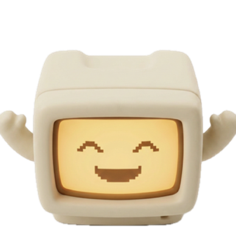
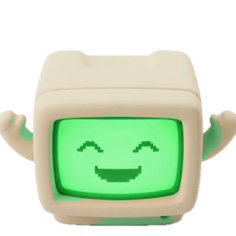
Cor da tela por estado, recolorindo em vez de gerar
Verde no concluido, vermelho no erro, violeta na pergunta, amarelo na espera.
Ambar continua sendo o repouso: se tudo mudasse de cor, nada seria excecao.

NAO foi gerado de novo. Pedir "o mesmo boneco com a tela verde" parece o
caminho obvio e falhou duas vezes: nas duas o enquadramento mudou, e na
segunda a remocao de fundo errou sobre o fundo branco novo e devolveu
recortes quebrados. Um conjunto bom virou um conjunto ruim.

A tela e a unica regiao SATURADA da imagem — a carcaca e creme pastel e os
pixels do rosto sao marrom escuro. Entao trocar a cor virou uma operacao
deterministica sobre os pixels que ja estavam certos: matiz 12-62 graus com
saturacao acima de 0.34, medido nestas imagens. Zero risco de enquadramento,
instantaneo e de graca.

Corrigido tambem o normalizador: a referencia passou do MAXIMO para a
MEDIANA. Com o maximo, um unico arquivo fora do padrao arrastava os outros
sete ate virarem miniatura — foi exatamente o que aconteceu na tentativa
anterior. A mediana ignora o outlier em vez de obedece-lo.

diff --git a/mac/Recolorir/main.swift b/mac/Recolorir/main.swift
@@ -1,0 +1,88 @@
+import AppKit
+
+// Troca a cor do BRILHO DA TELA sem tocar no resto do personagem.
+//
+// POR QUE NAO GERAR DE NOVO
+// -------------------------
+// Pedir ao modelo "o mesmo boneco com a tela verde" parece o caminho obvio e
+// foi tentado duas vezes. Nas duas o enquadramento mudou, e na segunda a
+// remocao de fundo falhou sobre o fundo branco novo e devolveu recortes
+// errados — um conjunto bom virou um conjunto quebrado.
+//
+// A tela e a unica regiao SATURADA da imagem: a carcaca e creme pastel, os
+// pixels do rosto sao marrom escuro. Entao trocar a cor e uma operacao
+// deterministica sobre os pixels que ja estao certos, com zero risco de
+// enquadramento. Mais rapido, mais barato e exato.
+//
+// Uso: recolorir <entrada.png> <saida.png> <matiz 0-360>
+
+func hsv(_ r: Double, _ g: Double, _ b: Double) -> (Double, Double, Double) {
+    let mx = max(r, g, b), mn = min(r, g, b), d = mx - mn
+    var h = 0.0
+    if d > 0 {
+        if mx == r { h = (g - b) / d + (g < b ? 6 : 0) }
+        else if mx == g { h = (b - r) / d + 2 }
+        else { h = (r - g) / d + 4 }
+        h *= 60
+    }
+    return (h, mx == 0 ? 0 : d / mx, mx)
+}
+
+func rgb(_ h: Double, _ s: Double, _ v: Double) -> (Double, Double, Double) {
+    let c = v * s, x = c * (1 - abs((h / 60).truncatingRemainder(dividingBy: 2) - 1))
+    let m = v - c
+    let (r, g, b): (Double, Double, Double)
+    switch h {
+    case ..<60:   (r, g, b) = (c, x, 0)
+    case ..<120:  (r, g, b) = (x, c, 0)
+    case ..<180:  (r, g, b) = (0, c, x)
+    case ..<240:  (r, g, b) = (0, x, c)
+    case ..<300:  (r, g, b) = (x, 0, c)
+    default:      (r, g, b) = (c, 0, x)
+    }
+    return (r + m, g + m, b + m)
+}
+
+let a = CommandLine.arguments
+guard a.count == 4, let alvo = Double(a[3]),
+      let img = NSImage(contentsOfFile: a[1]),
+      let cg = img.cgImage(forProposedRect: nil, context: nil, hints: nil) else {
+    print("uso: recolorir <entrada.png> <saida.png> <matiz 0-360>"); exit(1)
+}
+
+let w = cg.width, h = cg.height
+var px = [UInt8](repeating: 0, count: w * h * 4)
+guard let ctx = CGContext(data: &px, width: w, height: h, bitsPerComponent: 8,
+                          bytesPerRow: w * 4, space: CGColorSpaceCreateDeviceRGB(),
+                          bitmapInfo: CGImageAlphaInfo.premultipliedLast.rawValue) else { exit(1) }
+ctx.draw(cg, in: CGRect(x: 0, y: 0, width: w, height: h))
+
+// Limiar de saturacao: separa a tela (vivida) da carcaca creme (pastel).
+// 0.34 foi medido nestas imagens — abaixo disso o creme comeca a virar junto.
+let LIMIAR = 0.34
+var tocados = 0
+
+for i in stride(from: 0, to: px.count, by: 4) {
+    let al = Double(px[i + 3]) / 255
+    if al < 0.05 { continue }
+    // Desfaz a pre-multiplicacao antes de medir a cor, senao pixel
+    // semitransparente parece mais escuro do que e.
+    let r = Double(px[i]) / 255 / al
+    let g = Double(px[i + 1]) / 255 / al
+    let b = Double(px[i + 2]) / 255 / al
+    let (hu, sa, va) = hsv(min(r, 1), min(g, 1), min(b, 1))
+    // Ambar vive entre 15 e 60 graus. Restringir a faixa evita mexer nos
+    // pixels marrons do rosto, que sao o desenho e devem ficar.
+    guard sa >= LIMIAR, hu >= 12, hu <= 62 else { continue }
+    let (nr, ng, nb) = rgb(alvo, sa, va)
+    px[i]     = UInt8(max(0, min(255, nr * al * 255)))
+    px[i + 1] = UInt8(max(0, min(255, ng * al * 255)))
+    px[i + 2] = UInt8(max(0, min(255, nb * al * 255)))
+    tocados += 1
+}
+
+guard let saida = ctx.makeImage() else { exit(1) }
+let rep = NSBitmapImageRep(cgImage: saida)
+guard let png = rep.representation(using: .png, properties: [:]) else { exit(1) }
+try! png.write(to: URL(fileURLWithPath: a[2]))
+print("  \(URL(fileURLWithPath: a[2]).lastPathComponent): \(tocados) pixels recoloridos")

diff --git a/mac/Normalizar/main.swift b/mac/Normalizar/main.swift
@@ -89,8 +89,14 @@ for n in ESTADOS {
 }
 guard !recortes.isEmpty else { exit(1) }
 
-// A referência é o MAIOR personagem: encolher preserva detalhe, ampliar borra.
-let alturaMax = recortes.map { $0.2.height }.max()!
+// A referência é a MEDIANA, não o máximo.
+//
+// Com o maximo, um unico arquivo fora do padrao arrastava o conjunto inteiro:
+// bastou uma geracao vir com zoom para os outros sete encolherem ate virar
+// miniatura. Medido, e foi assim que um conjunto bom virou um conjunto ruim.
+// A mediana ignora o outlier em vez de obedece-lo.
+let ordenadas = recortes.map { $0.2.height }.sorted()
+let alturaMax = ordenadas[ordenadas.count / 2]
 let alvo = Double(LADO) * (1 - MARGEM * 2)
 let escalaComum = alvo / Double(alturaMax)
 print("\n  altura de referência: \(Int(alturaMax))px  ->  escala \(String(format: "%.3f", escalaComum))")

diff --git a/firmware/main/ui.c b/firmware/main/ui.c
@@ -37,7 +37,7 @@ static const char *TAG = "ui";
  *  alfabetica.
  * ———————————————————————————————————————————————— */
 #define ASSETS_QTD      8
-#define ASSETS_CHECKSUM 14708
+#define ASSETS_CHECKSUM 30780
 
 /* Ordem alfabetica dos arquivos na particao, mapeada para os nossos estados. */
 static const int IDX[FG_QTD] = {

diff --git a/firmware/mmap_generate_storage.h b/firmware/mmap_generate_storage.h
@@ -14,7 +14,7 @@
 #include "esp_mmap_assets.h"
 
 #define MMAP_STORAGE_FILES           8
-#define MMAP_STORAGE_CHECKSUM        0x3974
+#define MMAP_STORAGE_CHECKSUM        0x783C
 
 enum MMAP_STORAGE_LISTS {
     MMAP_STORAGE_ASKING_BIN = 0,        /*!< asking.bin */
